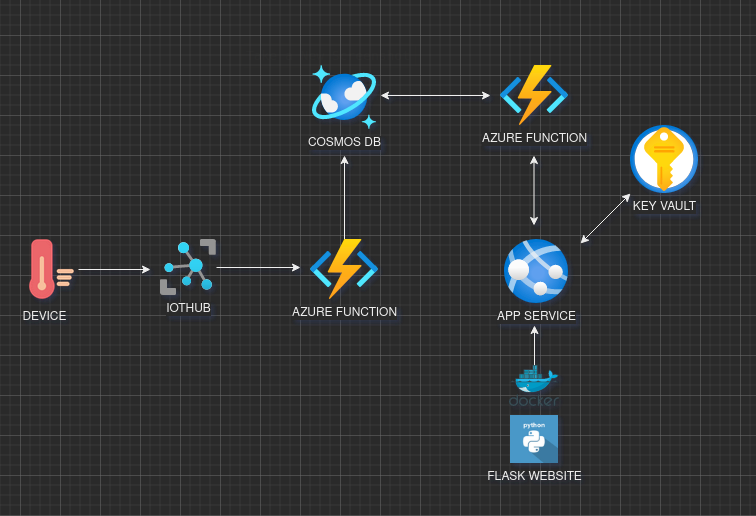
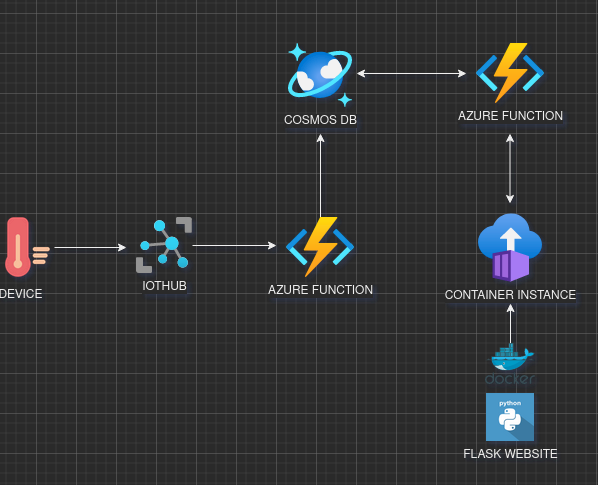
working: everything in azure

diff --git a/README.md b/README.md
@@ -17,14 +17,18 @@ In this project I've used a simulated device to be able to produce different typ
 
 I chose to store the messages from the device in a CosmosDB. CosmosDB works great to store simple telemetry messages from a device in cases that doesn't require a relational database. It's also easy to integrate with IoT Hub and Azure Functions. I chose to use the standard API which is a uses SQL-like queries to get data from the database, because of the easy syntax and good documentation.
 
-## Functions
+## Azure Functions
 
 I have two functions inside one function app. The first one triggers on a every new message in the IoT Hub and forwards the message to CosmosDB. The second one triggers on a HTTP request from the website and sends the contents of the cosmosDB as a response.
 I chose to write the Azure functions i C# and develop and testing them locally before pushing them to Azure. I thought about developing them in a different language like Python but in the end I found it more convenient to make them in C#.
 
-## Website
+## Website/Docker
 
-This part of the project was probably the most interesting one for me since I've never really built websites before. I chose to this with Flask in Python, as you can tell I'm not really a front end developer (yet), but I had a lot of fun. One of the more challenging parts was to figure out a way to manage secrets (API keys etc.) when uploading it to a cloud service. I chose to use Azure Key Vault to store my secrets and then acces them through their Python libraries. One nice thing with building the app in Flask is the ability to pass variable and use Python code inside the html files. In the end I chose to try to deploy the website to Azure in a docker container since I've never tried that before. 
+This part of the project was probably the most interesting one for me since I've never really built websites before. I chose to do this with Flask in Python, as you can tell I'm not really a front end developer (yet), but I had a lot of fun. One of the more challenging parts was to figure out a way to manage secrets (API keys etc.) when uploading it to a cloud service. I tested both Azure Key Vault and simple .env files and I got it to work in the end. I chose to deploy the website to Azure in a docker container since I've never tried that before. I published my docker image to dockerhub and hosted it on Azure via Azure Container Instance. I didn't get it to work with Azure App Services which was my first choice but I'll probably figure it out in the future.
+
+This is how the website turned out:
+![](web.png)
+![](web2.png)
 
 ## API
 
@@ -37,3 +41,6 @@ In the future I would like to try to integrate some kind of integration with my 
 I would also like to make the application more open for other people to use. This could done by making a setup page where you can choose the closes subway stop to you etc. You could also include more API:s like a weather API to make more accurate weather predictions. 
 
 Last but not least it would be interesting to train a machine learning model to make the decision depending on the weather instead of harcoding a temperature value. I could make the model take in more data such as rain/snow the weather forecast for the whole day etc. Afterall the temperature is not the only deciding factor to if you should bike or take the train.
+
+## Credits
+Special thanks to Microsofts documentation of Azure, StackOverflow and my dog! 
